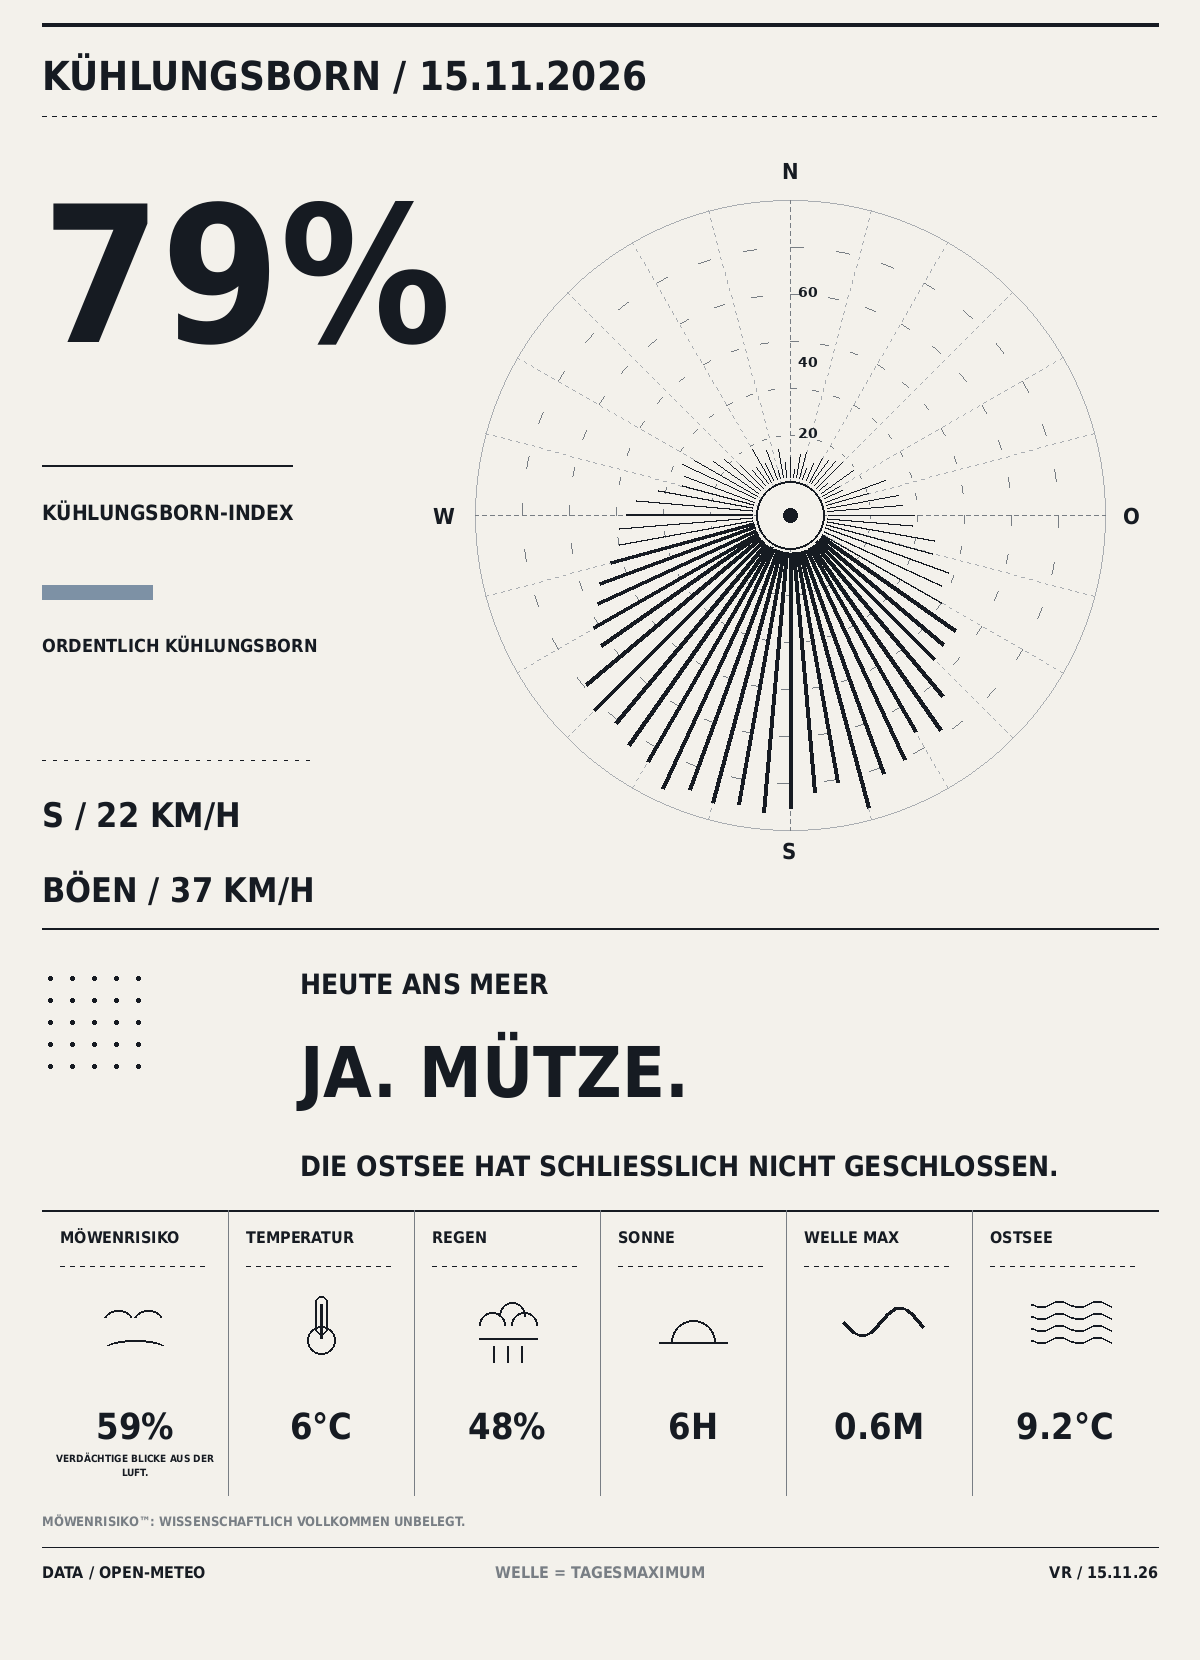
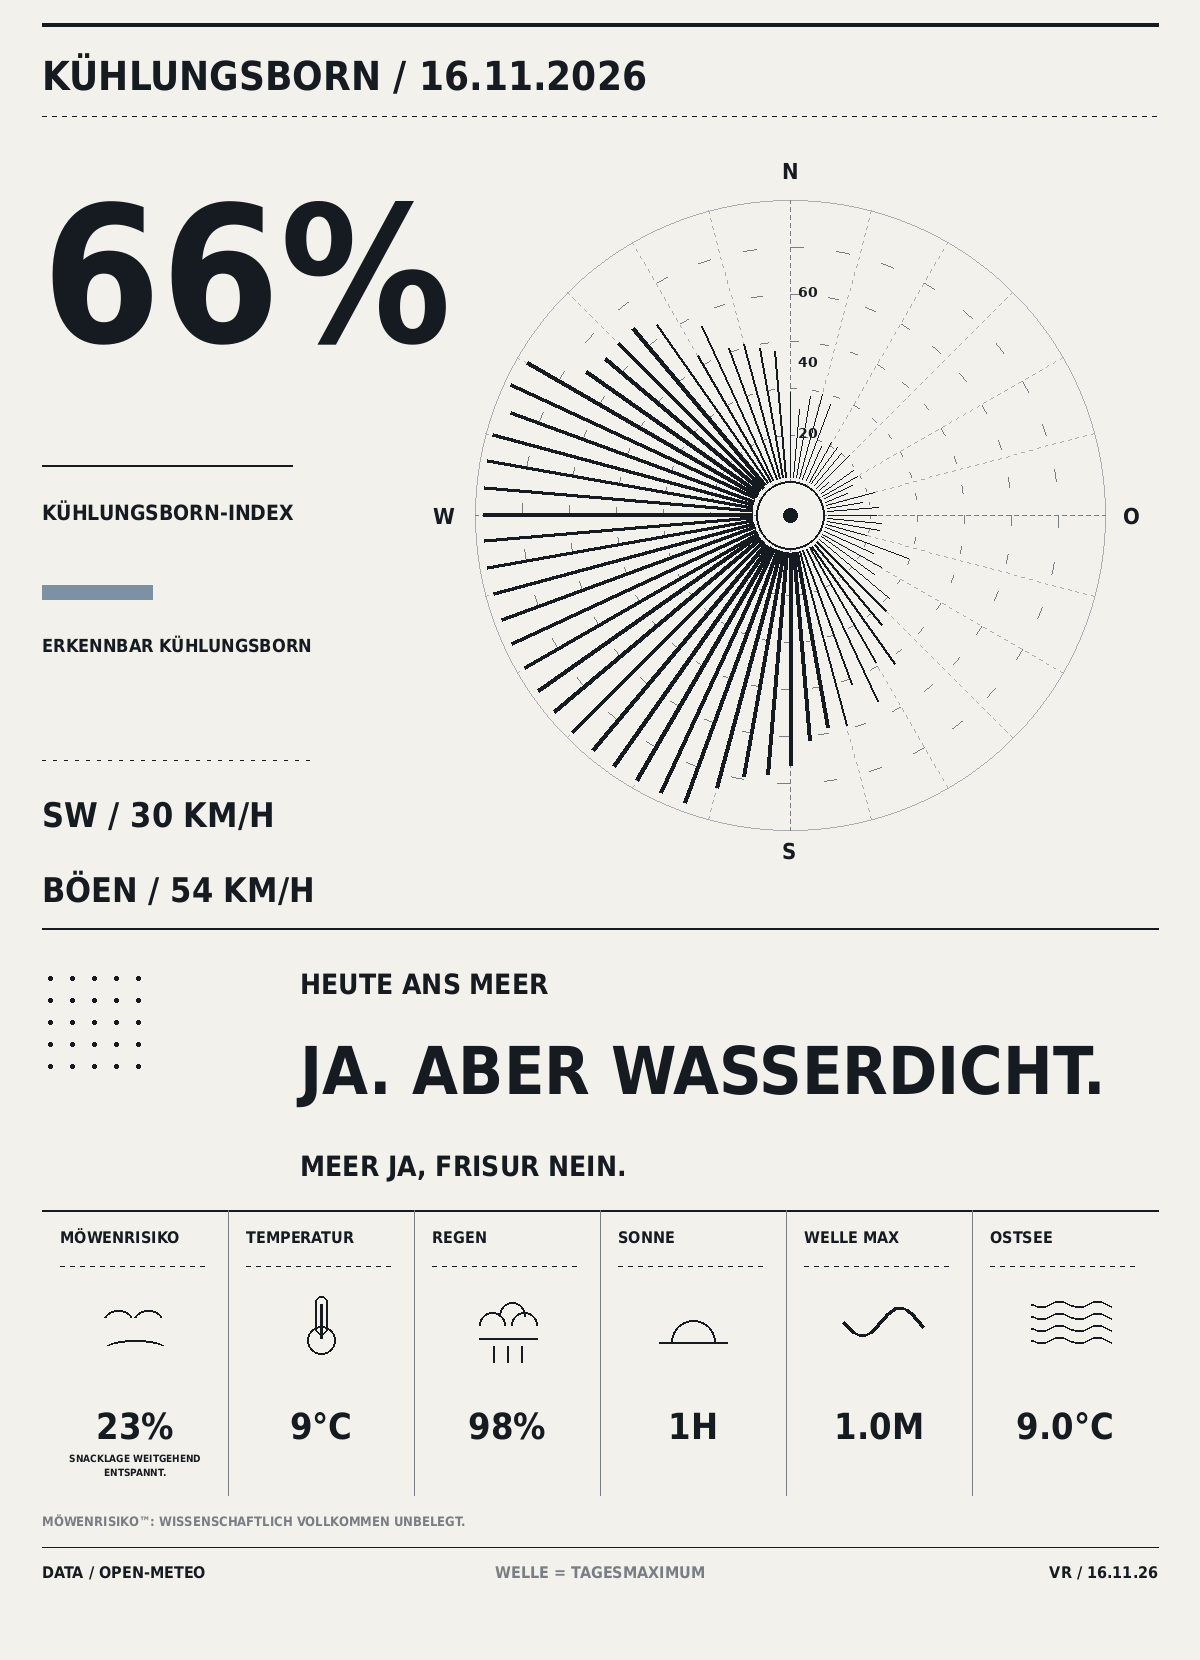
Add daily Kühlungsborn render

diff --git a/docs/index.html b/docs/index.html
@@ -122,20 +122,34 @@
     <section class="hero">
         <a
             class="card"
-            href="archive/2026-11-15.png"
+            href="archive/2026-11-16.png"
         >
             <img
-                src="archive/2026-11-15.png"
-                alt="Kühlungsborn heute 15.11.2026"
+                src="archive/2026-11-16.png"
+                alt="Kühlungsborn heute 16.11.2026"
             >
             <div class="meta">
-                NEUESTE AUSGABE / 15.11.2026
+                NEUESTE AUSGABE / 16.11.2026
             </div>
         </a>
     </section>
     
 
     <section class="grid">
+        
+        <a
+            class="card"
+            href="archive/2026-11-16.png"
+        >
+            <img
+                src="archive/2026-11-16.png"
+                alt="Kühlungsborn heute 16.11.2026"
+                loading="lazy"
+            >
+            <div class="meta">
+                16.11.2026
+            </div>
+        </a>
         
         <a
             class="card"
